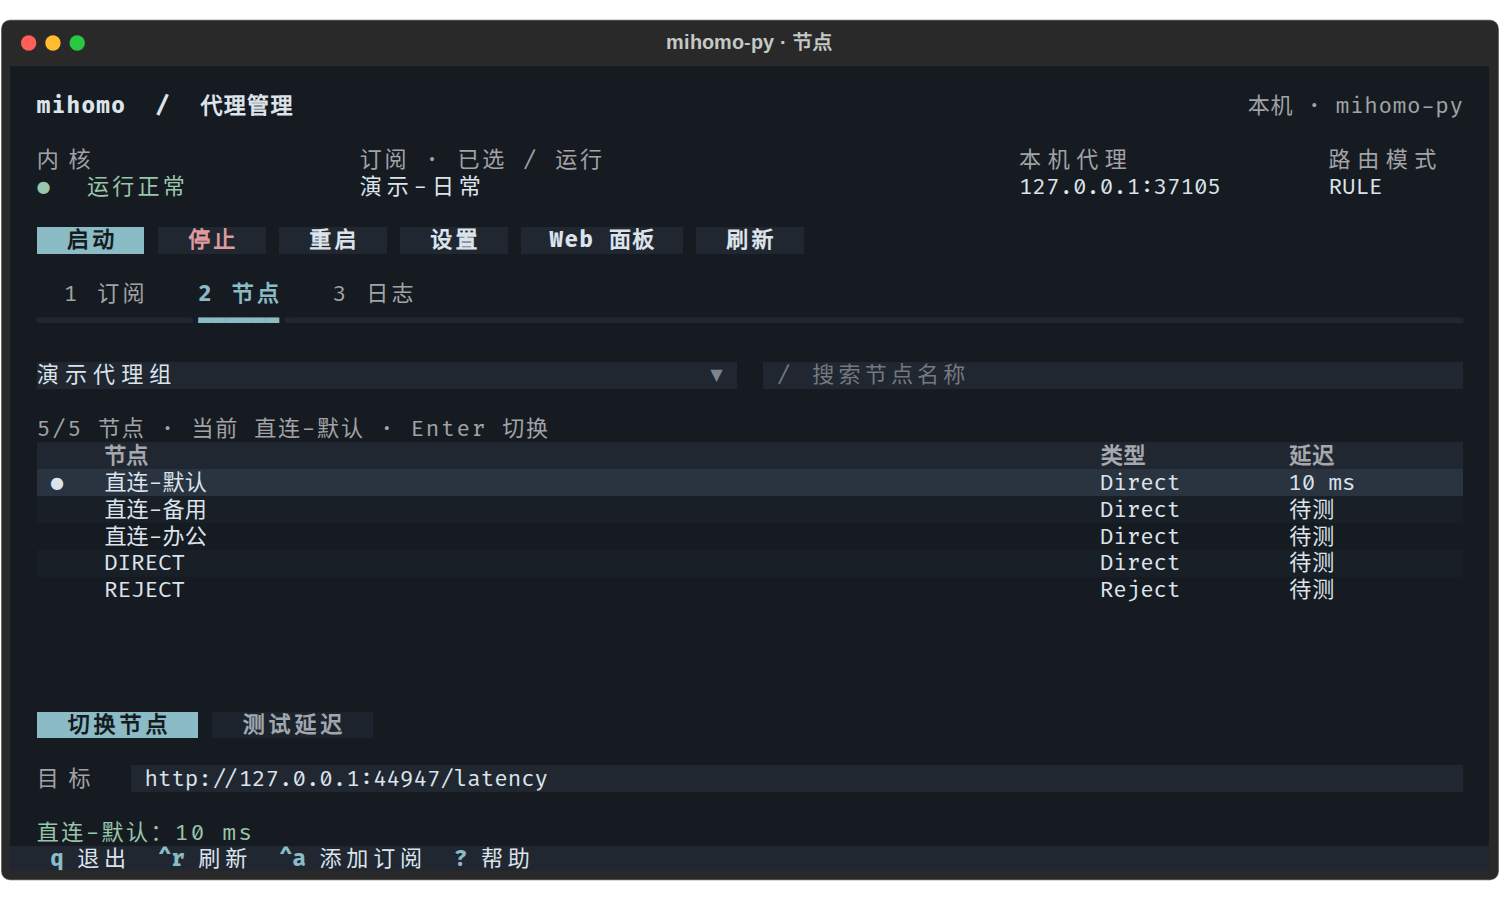
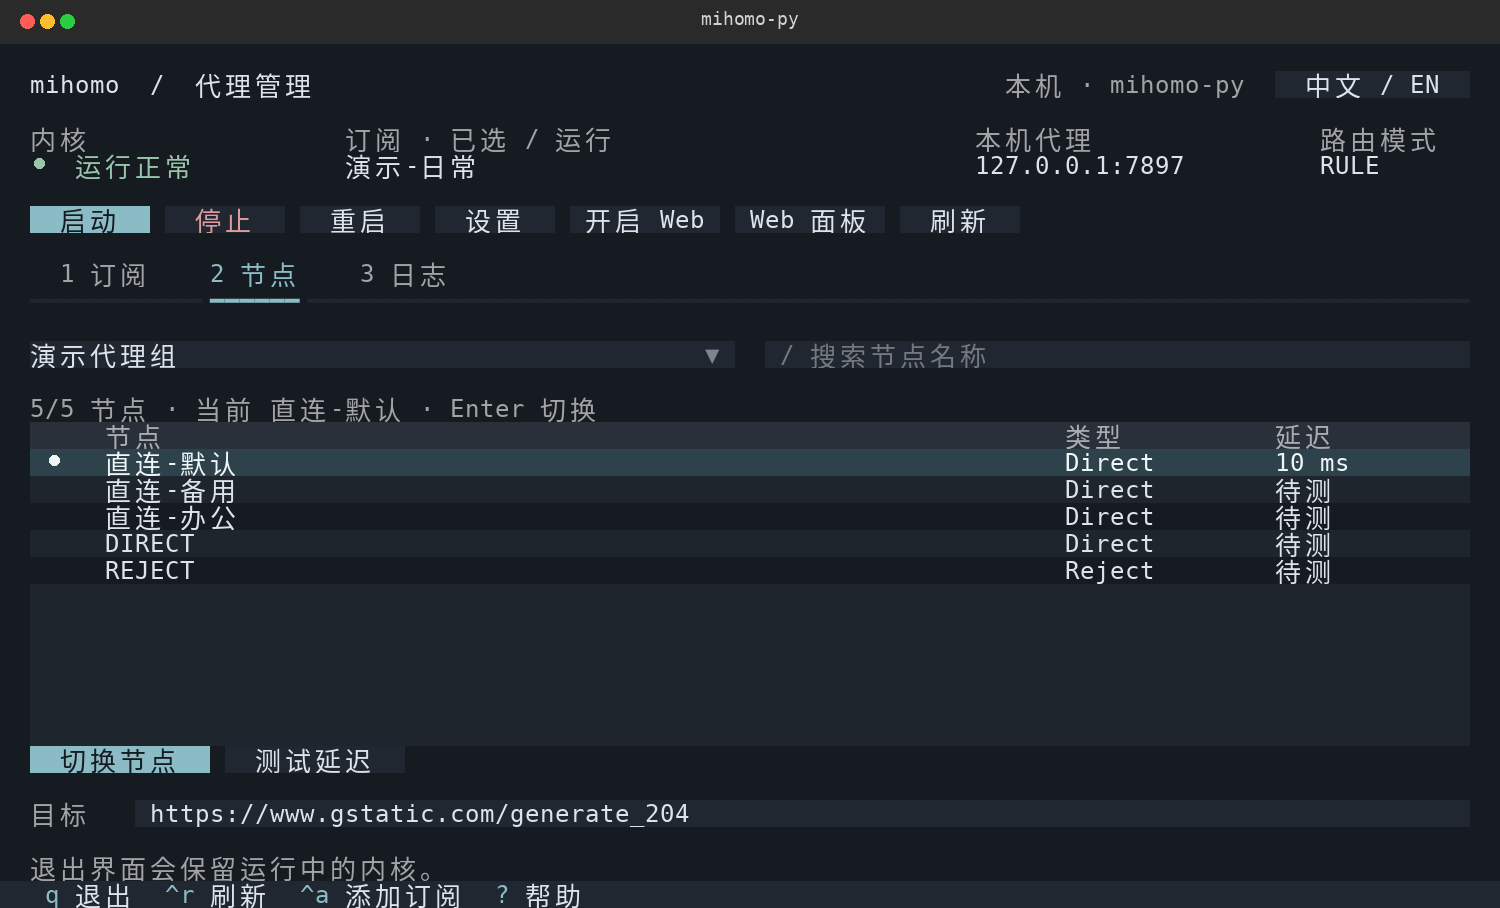
docs: refresh README screenshots

diff --git a/README.md b/README.md
@@ -14,11 +14,11 @@ Subscriptions, nodes and logs — without leaving SSH.
 
 </div>
 
-![TUI: subscriptions, core controls and server status](docs/assets/tui-subscriptions.png)
+![TUI: subscriptions, core controls and server status](docs/assets/tui-subscriptions.en.png)
 
 A [mihomo](https://github.com/MetaCubeX/mihomo) client for Linux servers. Add a subscription, start the core, and manage it with your mouse or keyboard. The core and default GEO databases ship with the package.
 
-The screenshots below use the Chinese locale; the same screens are available in English from the language button.
+The TUI screenshots show v0.1.5 in English at 100 × 32. Use the language button to switch between English and Chinese.
 
 ## Install. Open. Done.
 
@@ -30,20 +30,20 @@ mihomo-py
 Requires **Python 3.11+**, **Linux kernel 5.3+** with pidfd support, and **x86_64 / aarch64**. Works with system Python and Conda. Recommended terminal size: **80 × 24** or larger. The TUI follows the system language on first launch and supports Chinese and English; use the language button to switch between Follow system, Chinese, and English.
 
 1. Click **Add**, or press `Ctrl+A`. Enter a name and a subscription URL or local YAML path.
-2. Select the subscription and press `Enter` to use it.
+2. Single-click to browse a subscription; double-click or press `Enter` to use it.
 3. Click **Start**. Your HTTP/SOCKS proxy is ready at `127.0.0.1:7897` by default.
 
 Subscriptions must be complete Clash/mihomo YAML configurations. Base64 node lists and individual proxy links are not supported.
 
 ## Find a node. Switch. Test.
 
-![TUI: proxy groups, node selection and latency testing](docs/assets/tui-nodes.png)
+![TUI: proxy groups, node selection and latency testing](docs/assets/tui-nodes.en.png)
 
 Press `2` for nodes, select a proxy group, and press `/` to search. In a manual group, `Enter` switches the selected node immediately; **Test latency** measures one node. Node choices survive core restarts.
 
 ## Follow logs. Keep your place.
 
-![TUI: live logs with pause and resume controls](docs/assets/tui-logs.png)
+![TUI: live logs with pause and resume controls](docs/assets/tui-logs.en.png)
 
 Press `3` for logs. Scroll up to pause; press `End` to resume following. Press `q` to leave the TUI — **the core keeps running**.
 
@@ -61,4 +61,4 @@ Install the optional Web resources with `python -m pip install 'mihomo-py[web]'`
 
 The proxy listens on `127.0.0.1:7897` by default. The authenticated management API listens on `0.0.0.0:9090`; the optional Web gateway listens on `0.0.0.0:9091`. Use a trusted network or change the bind address in **Settings**. TUN and automatic system proxy setup are outside the current scope.
 
-*Screenshots use an isolated local demo: direct routes, a local latency target, and no real subscription credentials. Bundled resources retain their [upstream notices](src/mihomo_py/_vendor/NOTICE.txt).*
+*TUI screenshots render the current application with fixed demo data (including sample logs and latency), without real subscription credentials. The Web screenshot uses an isolated local instance. Bundled resources retain their [upstream notices](src/mihomo_py/_vendor/NOTICE.txt).*

diff --git a/README.zh-CN.md b/README.zh-CN.md
@@ -18,6 +18,8 @@
 
 面向 Linux 服务器的 [mihomo](https://github.com/MetaCubeX/mihomo) 客户端。添加订阅、启动内核，用鼠标或键盘管理代理。**内核和默认 GEO 数据库随包附带**，无需单独下载。
 
+TUI 截图展示 v0.1.5 的中文界面（100 × 32）；点击右上角语言按钮可以切换中英文。
+
 ## 安装，打开，开始用
 
 ```bash
@@ -28,7 +30,7 @@ mihomo-py
 需要 **Python 3.11+**、支持 pidfd 的 **Linux 5.3+** 内核，支持 **x86_64 / aarch64**、系统 Python 和 Conda。建议终端至少 **80 × 24**；TUI 首次按系统语言选择中文或英文，也可以在语言按钮中切换跟随系统、中文和 English。
 
 1. 点击 **添加**，或按 `Ctrl+A`，填写名称和订阅 URL / 本地 YAML 路径。
-2. 选中订阅，按 `Enter` 使用。
+2. 单击浏览订阅，双击或按 `Enter` 使用。
 3. 点击 **启动**，HTTP/SOCKS 代理默认位于 `127.0.0.1:7897`。
 
 订阅须为完整的 Clash/mihomo YAML 配置；不支持 Base64 节点列表或单节点链接。
@@ -59,4 +61,4 @@ mihomo-py
 
 代理默认监听 `127.0.0.1:7897`；带密钥验证的管理 API 默认监听 `0.0.0.0:9090`，可选 Web 服务默认监听 `0.0.0.0:9091`。请在可信网络使用，或在 **设置** 中修改监听地址。当前不提供 TUN 和系统代理自动配置。
 
-*截图使用隔离的本地演示配置：直连节点、本地测速目标，不含真实订阅凭证。内置资源保留各自的[上游许可与归属说明](src/mihomo_py/_vendor/NOTICE.txt)。*
+*TUI 截图由当前应用和固定演示数据渲染（日志和延迟均为示例），不含真实订阅凭证；Web 截图来自隔离的本地实例。内置资源保留各自的[上游许可与归属说明](src/mihomo_py/_vendor/NOTICE.txt)。*
